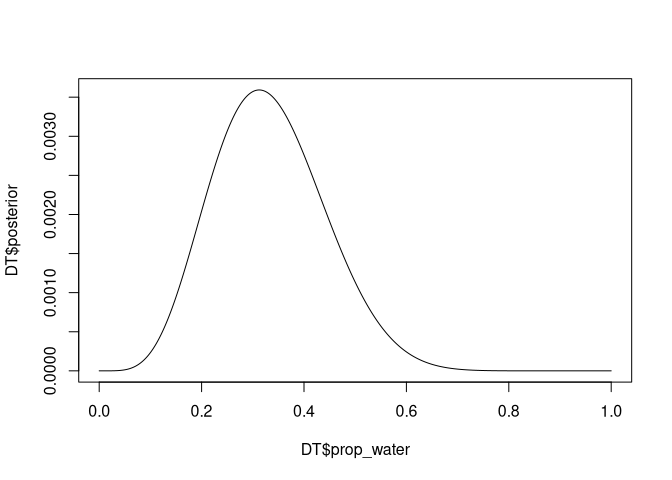
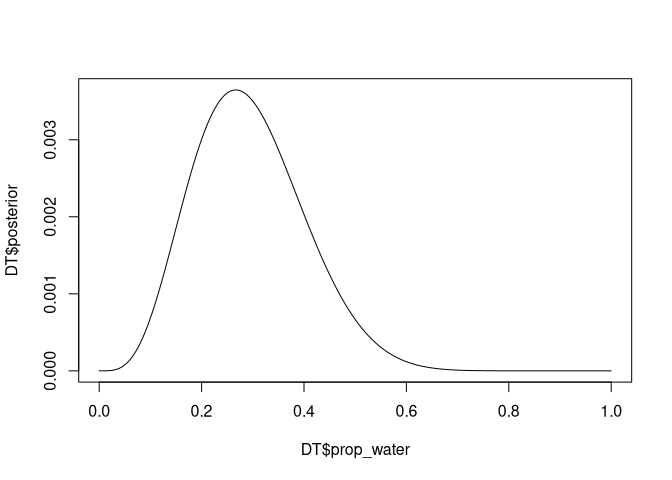
q2

diff --git a/homework/01-homework.md b/homework/01-homework.md
@@ -24,8 +24,7 @@ prior_grid <- seq(0, 1, length.out = gridsize)
 # Prior probability (all 1)
 prior_prob <- rep(1, gridsize)
 
-# Data probability
-#  given 4/15, using binomial distribution
+# Data probability, using binomial distribution
 water <- 4
 land <- 11
 data_prob <- dbinom(water, water + land, prob = prior_grid)
@@ -36,7 +35,7 @@ DT <- data.table(prop_water = prior_grid,
                  prob_water = data_prob)
 
 # Calculate the posterior numerator by multiplying prior and data probability
-DT[, posterior_num := prop_water * prob_water]
+DT[, posterior_num := prior_water * prob_water]
 
 # Standardize by sum of posterior numerator
 DT[, posterior := posterior_num / sum(posterior_num)]
@@ -47,3 +46,45 @@ plot(DT$prop_water, DT$posterior, type = 'l')
 ```
 
 ![](01-homework_files/figure-gfm/w01_q01-1.png)<!-- -->
+
+## Question 2
+
+> Now suppose the data are 4 water and 2 land. Compute the posterior
+> again, but this time use a prior that is zero below p = 0.5 and a
+> constant above p = 0.5. This corresponds to prior information that a
+> majority of the Earth’s surface is water.
+
+``` r
+# Process ---------------------------------------------------------------------
+# Size of grid for grid approximation
+gridsize <- 1000
+
+# Prior grid
+prior_grid <- seq(0, 1, length.out = gridsize)
+
+# Prior probability (all 1)
+prior_prob <- c(rep(0, gridsize / 2), rep(1, gridsize / 2))
+
+# Data probability
+#  given 4, using binomial distribution
+water <- 4
+land <- 2
+data_prob <- dbinom(water, water + land, prob = prior_grid)
+
+# Wrap as DT
+DT <- data.table(prop_water = prior_grid,
+                 prior_water = prior_prob,
+                 prob_water = data_prob)
+
+# Calculate the posterior numerator by multiplying prior and data probability
+DT[, posterior_num := prior_water * prob_water]
+
+# Standardize by sum of posterior numerator
+DT[, posterior := posterior_num / sum(posterior_num)]
+
+
+# Plot -------------------------------------------------------------------------
+plot(DT$prop_water, DT$posterior, type = 'l')
+```
+
+![](01-homework_files/figure-gfm/w01_q02-1.png)<!-- -->
